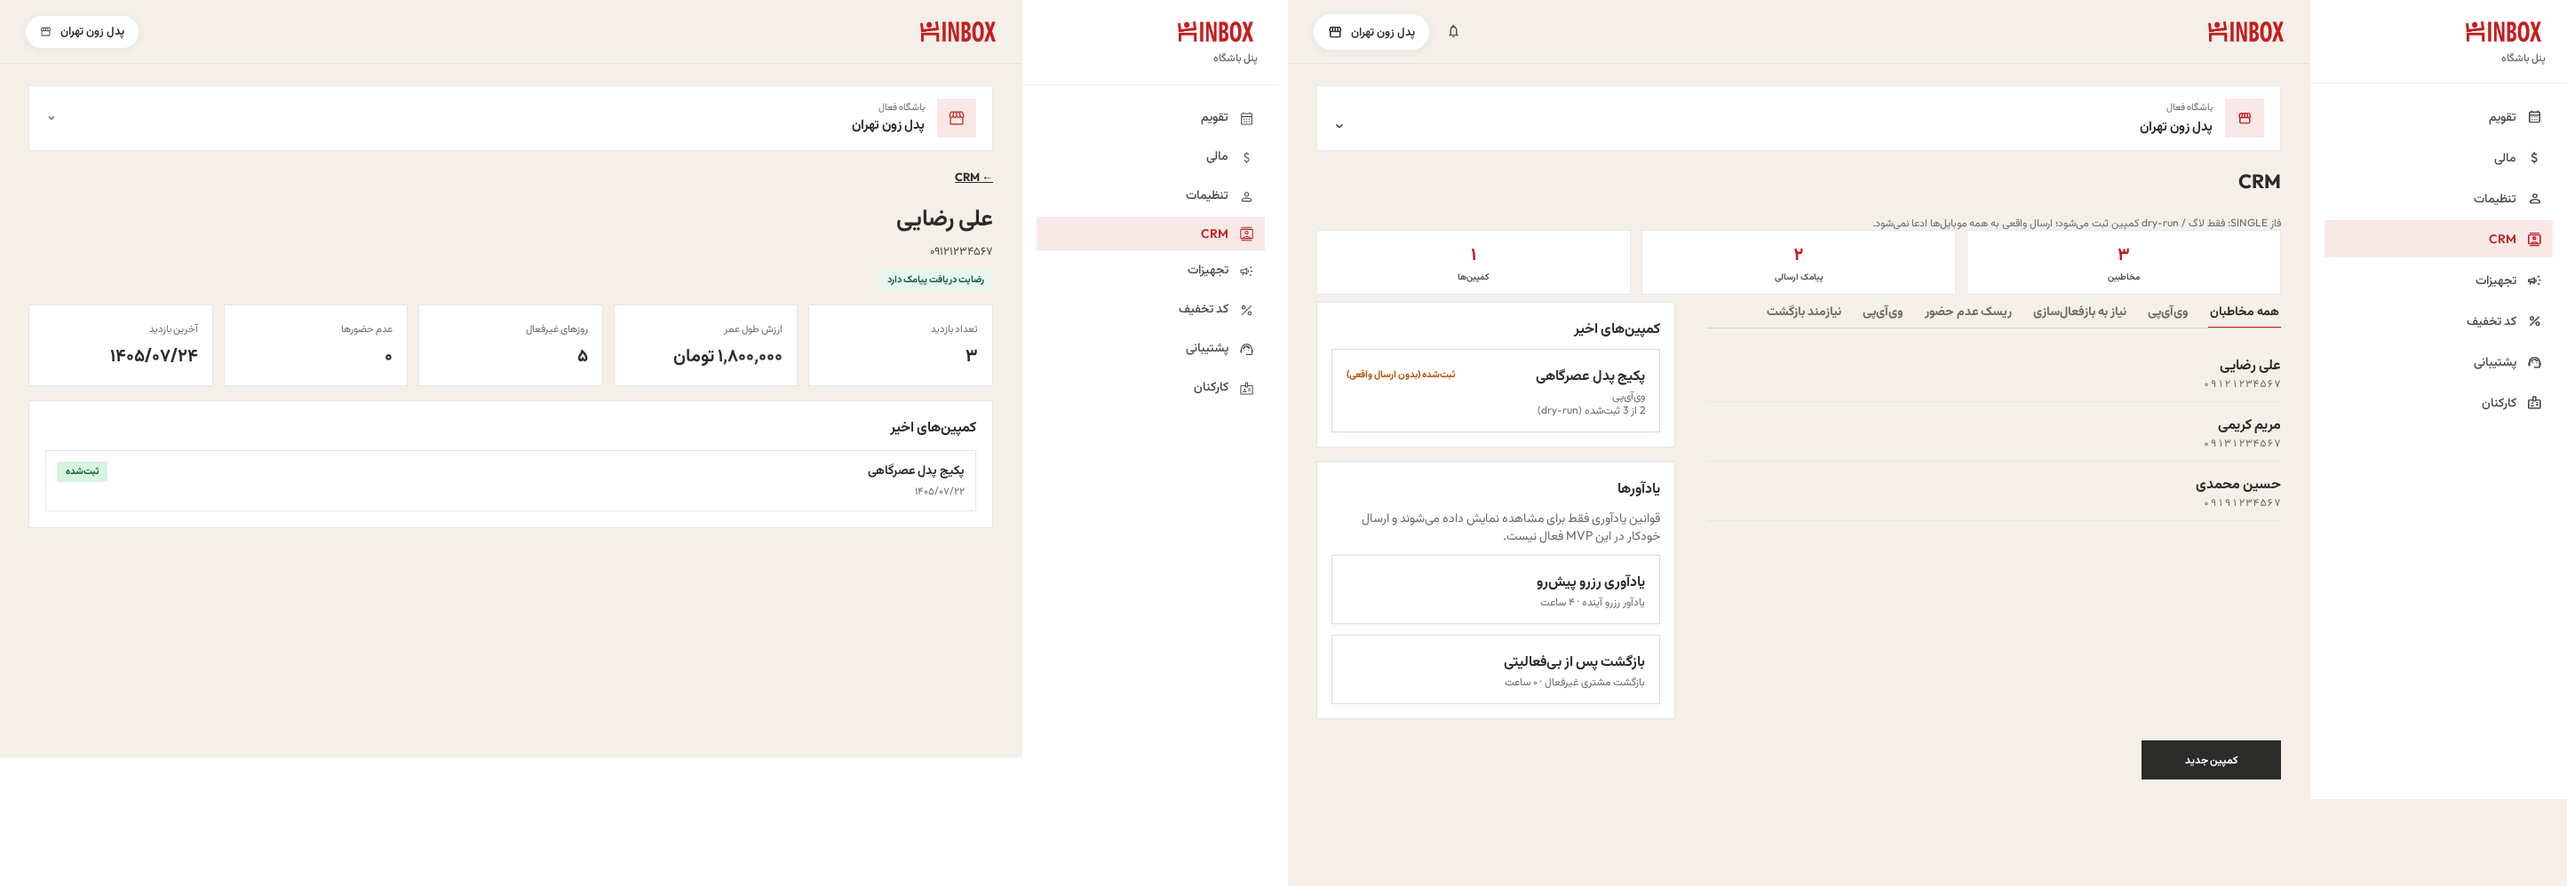
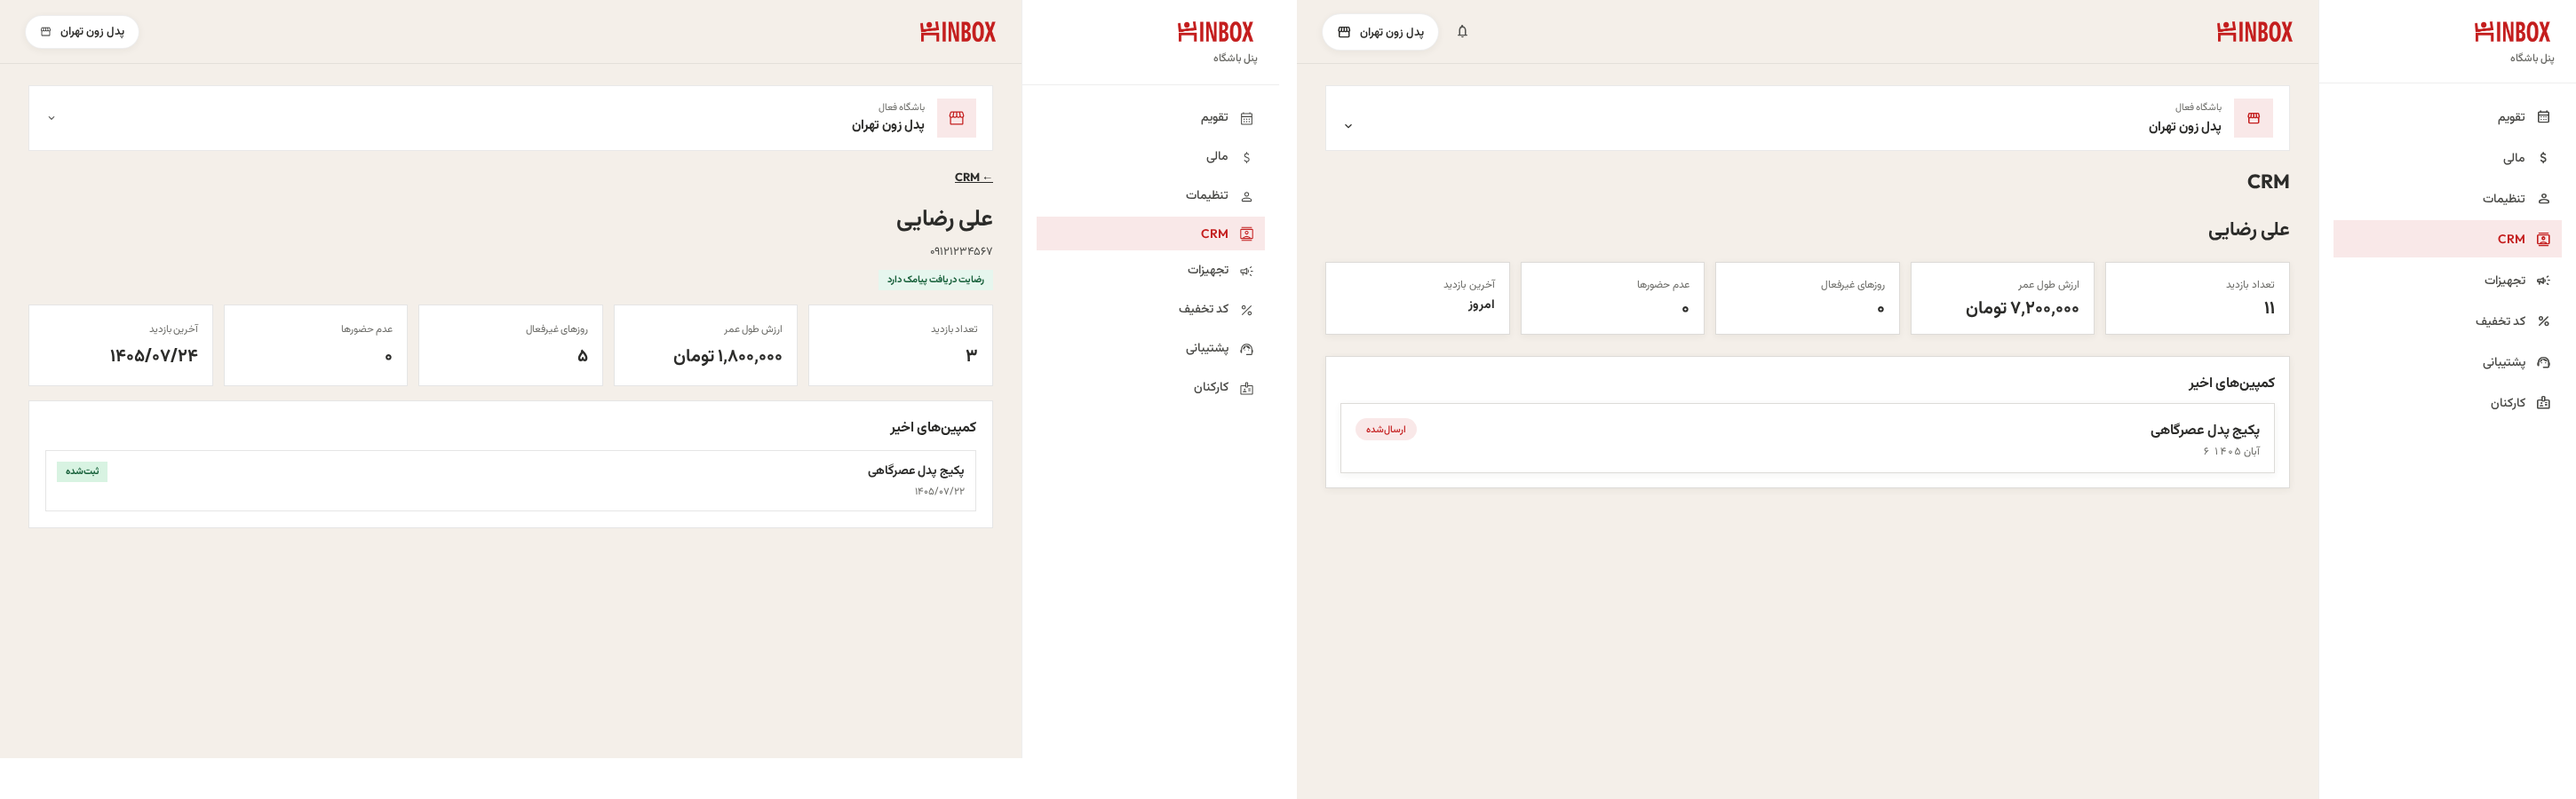
fix(owner/crm, coach/book): render CRM contact detail route; fix court sort crash
- Move owner/crm.vue -> owner/crm/index.vue so /owner/crm/[id] is a sibling
  route instead of an un-rendered child (parent had no <NuxtPage/>)
- Contact detail: lastVisit is free text, not ISO; stop passing it to date formatter
- coach/book: map CourtGroup to {nameFa,nameEn} before sortCourtsByOrdinal
- Re-captured SoT vs branch comparisons for both screens

diff --git a/app/pages/coach/book.vue b/app/pages/coach/book.vue
@@ -175,7 +175,11 @@ const courtGroups = computed((): CourtGroup[] => {
     group.bookable.sort((a, b) => a.startTime.localeCompare(b.startTime))
     group.blocked.sort((a, b) => a.startTime.localeCompare(b.startTime))
   }
-  return sortCourtsByOrdinal([...map.values()])
+  // CourtGroup carries courtNameFa/courtNameEn; sortCourtsByOrdinal expects nameFa/nameEn.
+  const order = sortCourtsByOrdinal(
+    [...map.values()].map((group) => ({ id: group.courtId, nameFa: group.courtNameFa, nameEn: group.courtNameEn })),
+  )
+  return order.map((court) => map.get(court.id)!)
 })
 
 const selectedCourtGroup = computed(() =>

diff --git a/app/pages/owner/crm/[id].vue b/app/pages/owner/crm/[id].vue
@@ -73,7 +73,7 @@ function campaignStatusLabel(status: string) {
           </div>
           <div class="canva-panel col-span-2 sm:col-span-1">
             <p class="text-xs text-brand-gray-500">{{ t('owner.playerDetail.lastVisit') }}</p>
-            <p class="mt-1 text-sm font-bold text-brand-navy"><bdi dir="ltr" class="tabular-nums">{{ contact.lastVisit ? formatIsoDate(contact.lastVisit) : '—' }}</bdi></p>
+            <p class="mt-1 text-sm font-bold text-brand-navy"><bdi dir="auto">{{ contact.lastVisit || '—' }}</bdi></p>
           </div>
         </div>
 

diff --git a/docs/AUDIT_CHECKLIST.md b/docs/AUDIT_CHECKLIST.md
@@ -35,7 +35,7 @@
 | `/owner/finance` | `app/pages/owner/finance.vue` | Persian digits on stats | — | week labels LTR | loading/error states | Fixed |
 | `/owner/equipments` | `app/pages/owner/equipments.vue` | — | — | — | add/edit/delete all categories | Fixed |
 | `/owner/packages` | `app/pages/owner/packages.vue` | — | — | — | club-scoped coaches, loading/error | Fixed |
-| `/owner/crm` | `app/pages/owner/crm.vue` | delivered, VIP | delivered, VIP | datetime-local | loading/error states | Fixed |
+| `/owner/crm` | `app/pages/owner/crm/index.vue` | delivered, VIP | delivered, VIP | datetime-local | loading/error states | Fixed |
 | `/owner/coaches` | `app/pages/owner/coaches.vue` | StaffRole i18n | StaffRole i18n | session times | loading/error states | Fixed |
 | `/owner/support` | `app/pages/owner/support.vue` | WhatsApp label | — | phone LTR | club cookie refresh | OK |
 | `/owner/settings` | `app/pages/owner/settings.vue` | editable bilingual fields | — | hours/phone LTR | PATCH API + save states | Fixed |
